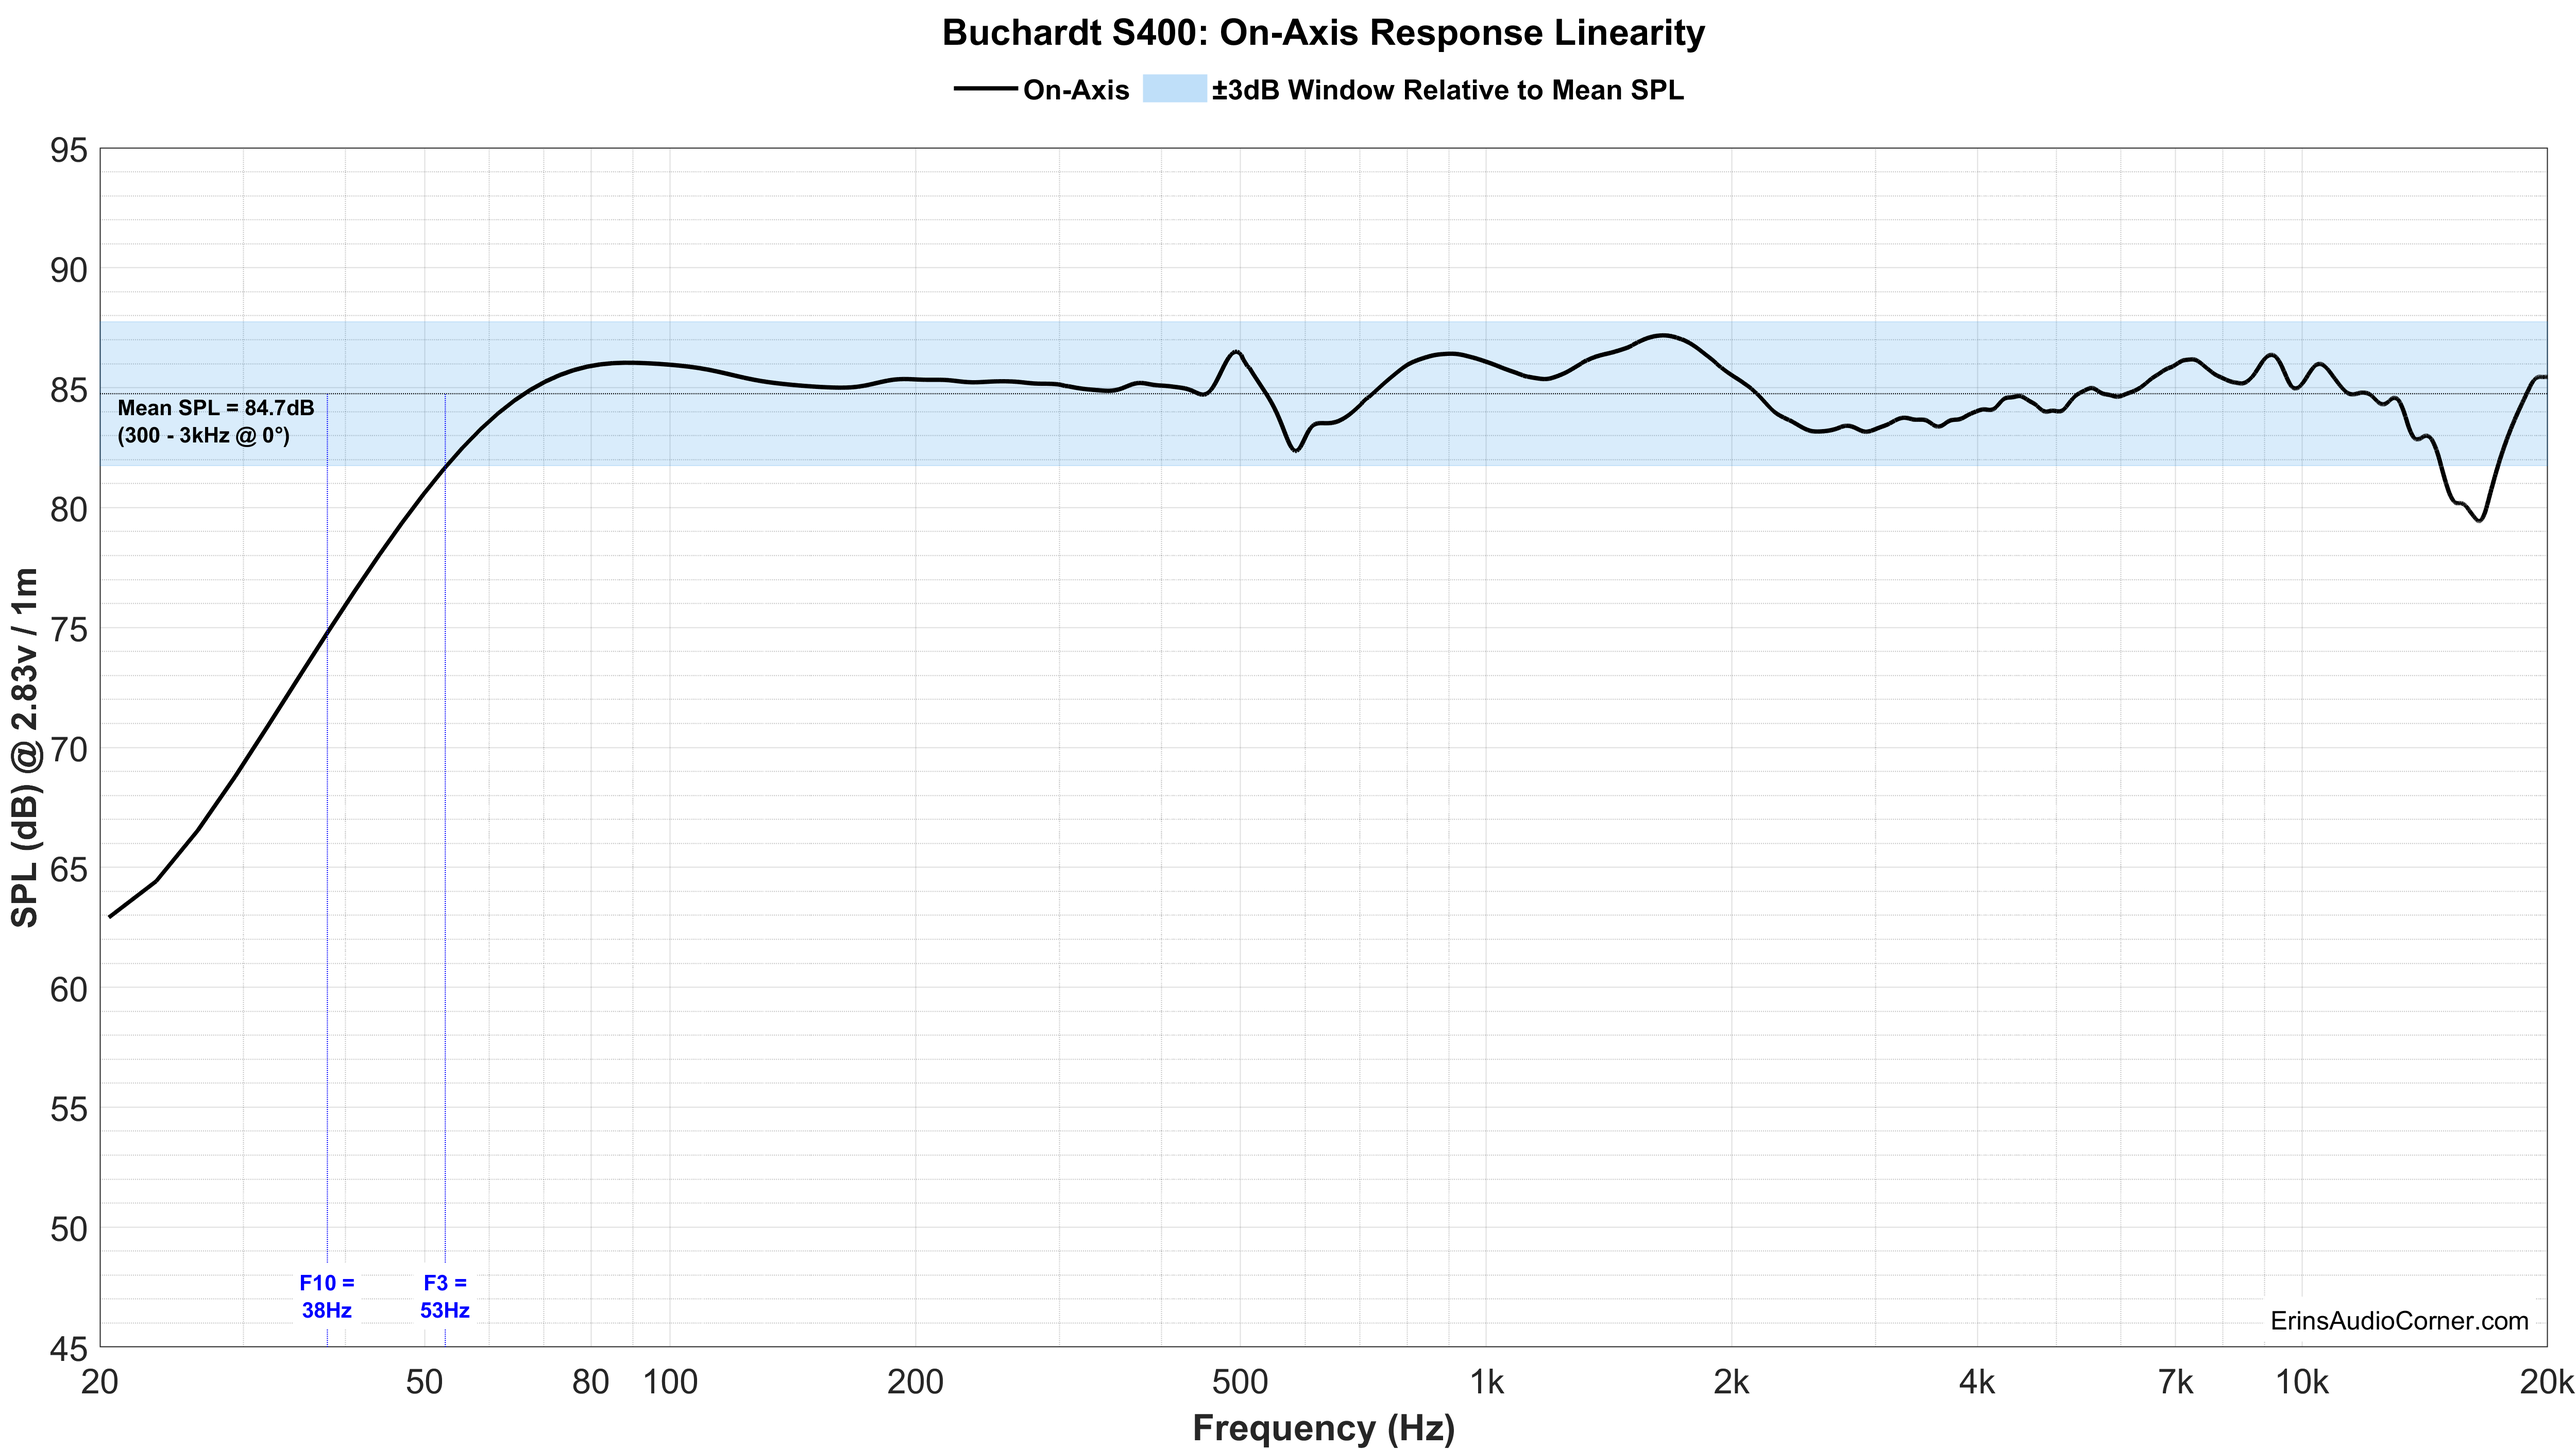
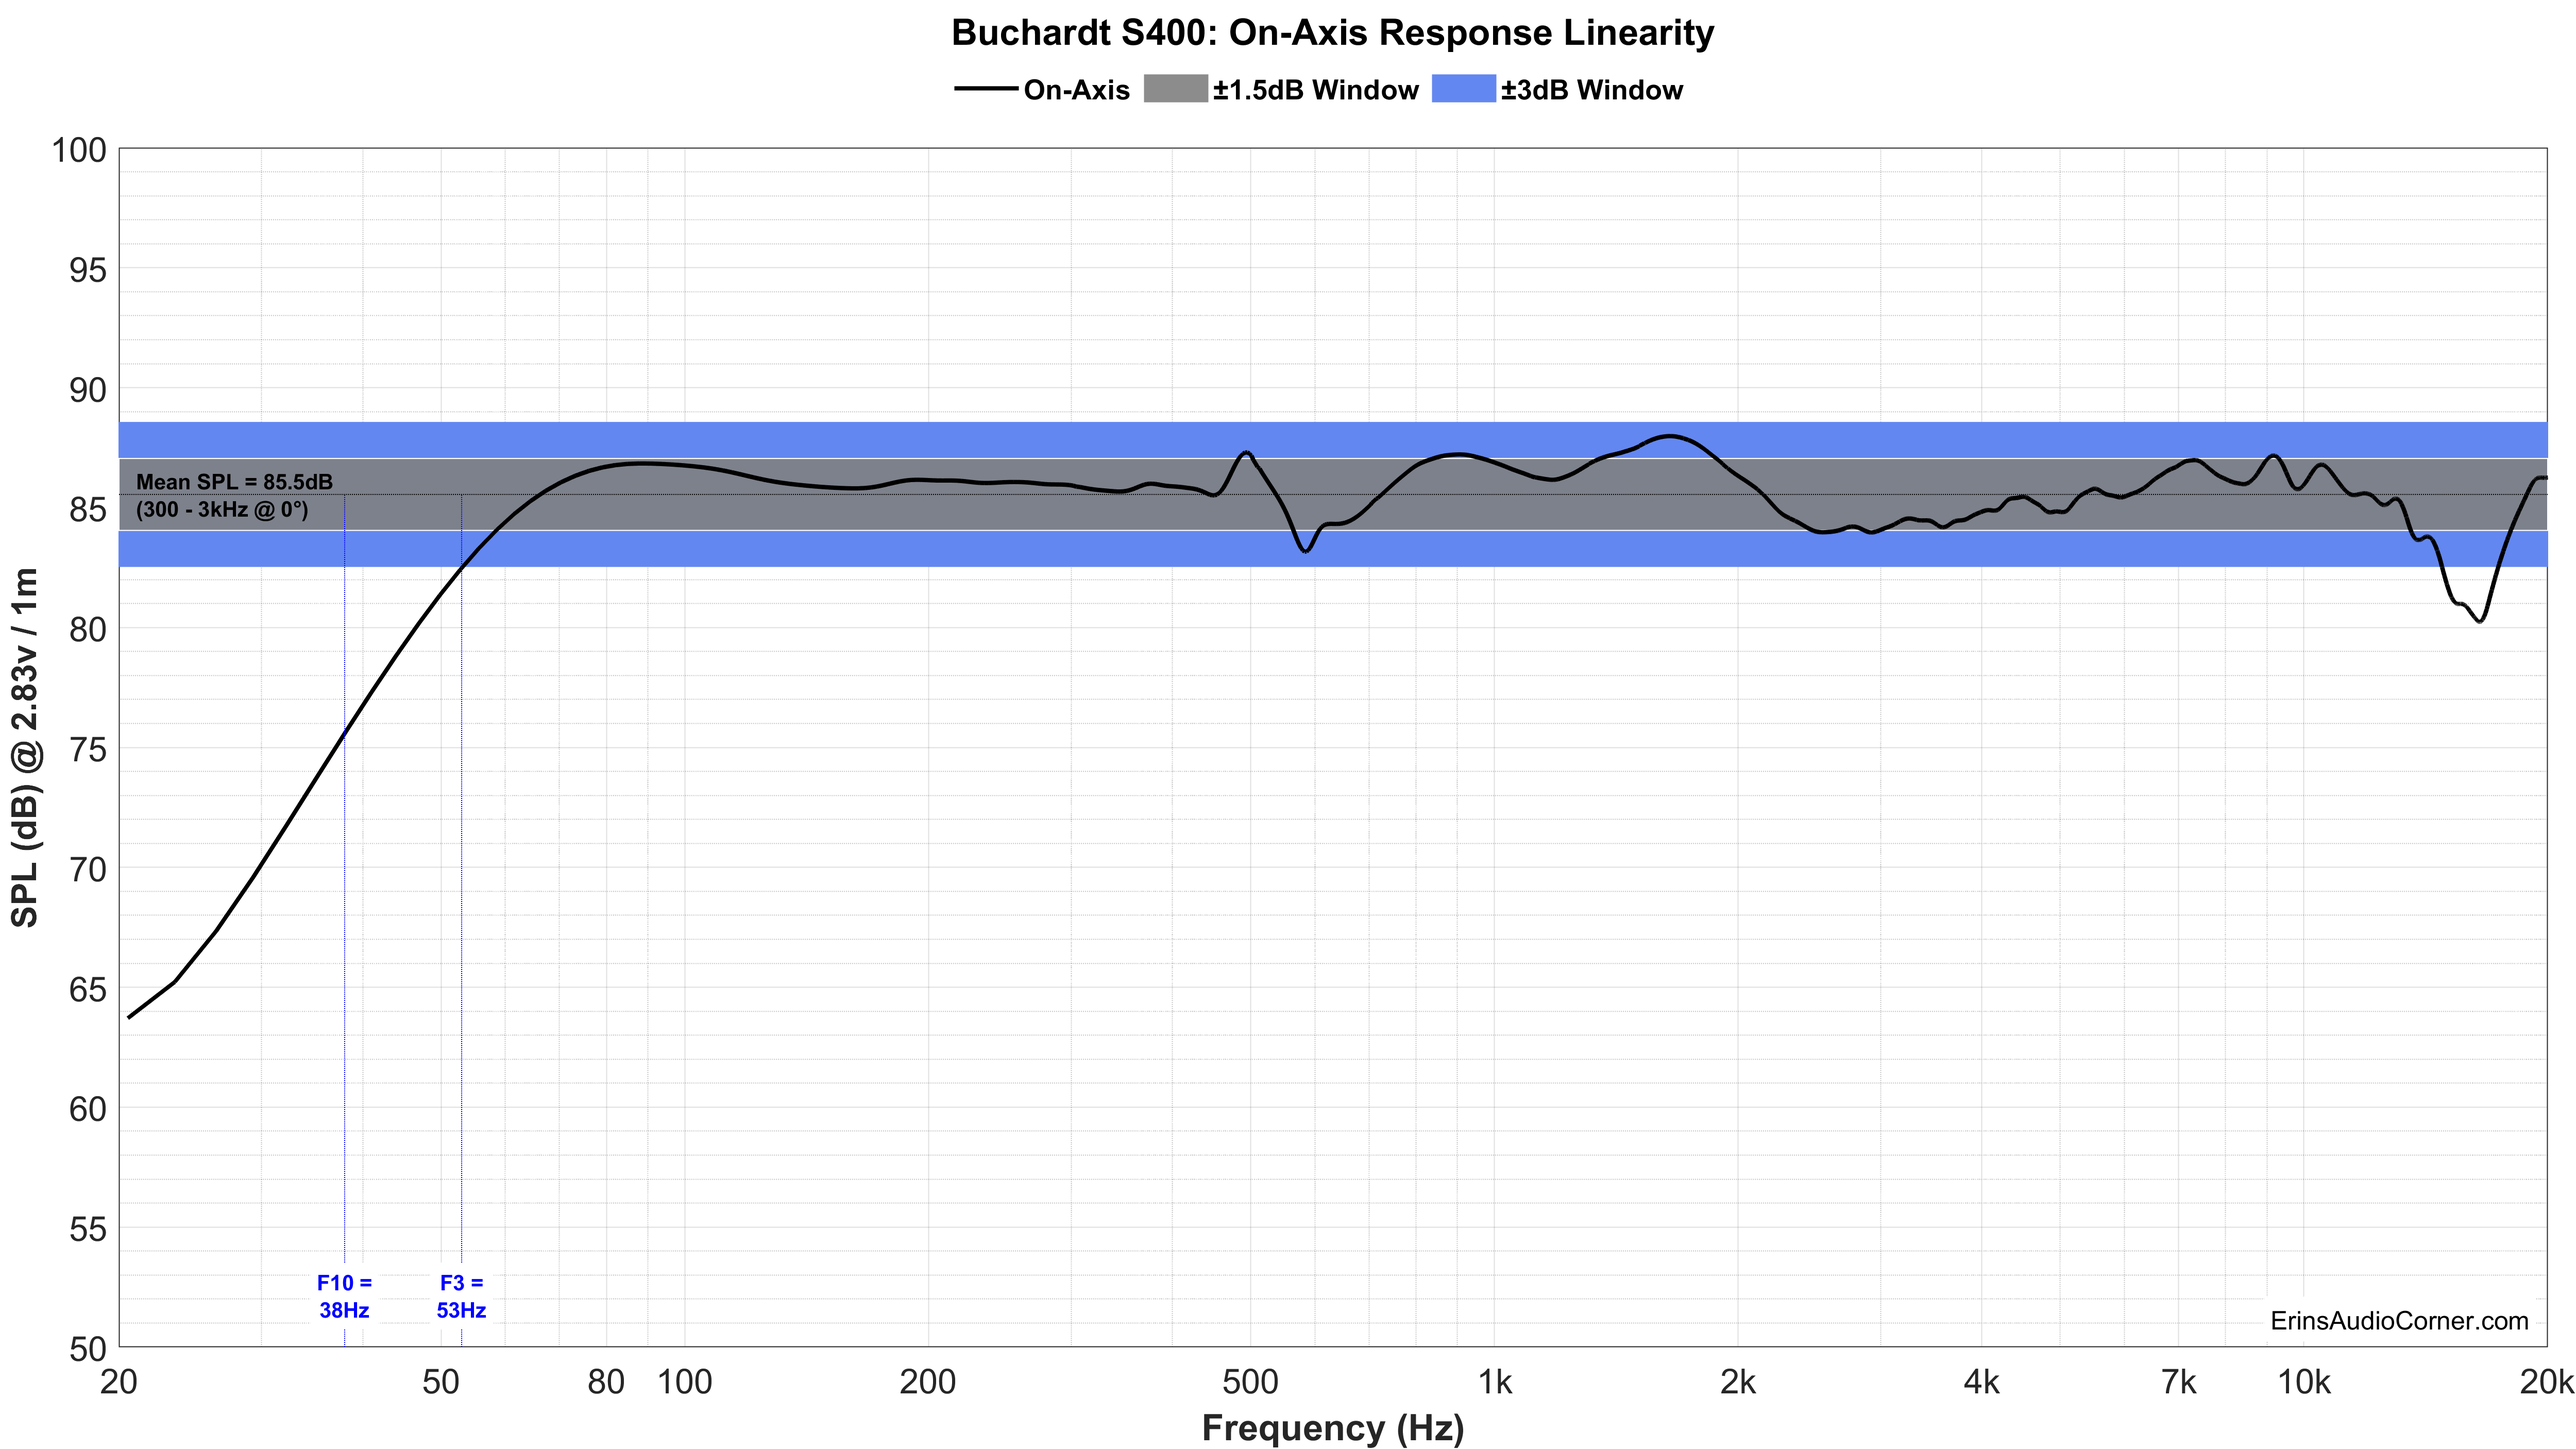
Buchardt_s400_linearity

diff --git a/content/english/loudspeakers/Buchardt_Audio_S400_Bookshelf.md b/content/english/loudspeakers/Buchardt_Audio_S400_Bookshelf.md
@@ -79,11 +79,15 @@ Frequency response data (horizontal, vertical, "Spinorama", polar, spectrograms,
 
 <br>
 
-The measurement below provides the frequency response at the reference measurement axis - also known as the 0-degree axis or "on axis" plane - in this measurement condition was situated between the woofer and waveguide, per the manufacturer recommendation.  Ideally, the response is linear/flat and shows no resonance via peaks or dips.  The mean spl, approximately 84.7dB, is calculated over the frequency range of 300Hz to 3,000Hz.  The blue shaded area represents the ±3dB response window from this mean spl value.  As you can see, the Buchardt S400 has a ±3dB response from 53Hz - ~16kHz, with the latter being a function of the on-axis dip via cancelation of the dome tweeter to the waveguide mouth which is not apparent off-axis. The speaker's F3 point (the point at which the response has fallen 3dB relative to the mean spl) is 53Hz and the F10 (the point at which the response has fallen by 10dB relative to the mean spl) is 38Hz.  While typical rooms provide a low-frequency boost, if you plan to listen to music with lower frequency content, this information indicates you would need a subwoofer to fill in the lower octaves (or, you can use EQ to boost the low end but lowering the maximum SPL).
+The measurement below provides the frequency response at the reference measurement axis - also known as the 0-degree axis or "on axis" plane - in this measurement condition was situated between the woofer and waveguide, per the manufacturer recommendation.
 
 <img align="left" src="/images/Reviews/Loudspeakers/Buchardt_S400/Buchardt S400 FR_Linearity.png" alt="fr horz" width="120%"/>
 
 <br clear="all" />
+
+The mean spl, approximately 85.5dB, is calculated over the frequency range of 300Hz to 3,000Hz.  The blue shaded area represents the ±3dB response window from this mean spl value.  As you can see in the blue window above, the Buchardt S400 has a ±3dB response from 53Hz - ~16kHz, with the latter being a function of the on-axis dip via cancelation of the dome tweeter to the waveguide mouth which is not apparent off-axis. A tighter window of linearity is provided in gray as ±1.5dB from the mean SPL.
+
+The speaker's F3 point (the frequency at which the response has fallen 3dB relative to the mean spl) is 53Hz and the F10 (the frequency at which the response has fallen by 10dB relative to the mean spl) is 38Hz.  While typical rooms provide a low-frequency boost, if you plan to listen to music with lower frequency content, this information indicates you would need a subwoofer to fill in the lower octaves (or, you can use EQ to boost the low end but lowering the maximum SPL).  For further discussion on maximum SPL please read by evaluation sections toward the end of this review.
 
 
 Below are both the horizontal and vertical response over a limited window (90° horizontal, ±40° vertical).  I have provided a "normalized" set of data as well.  The normalization simply means that I took the difference of the on-axis response and compared the other axes' measurements to the on-axis response which gives the viewer a good idea of the speaker performance, relative to the on-axis response, as you move off-axis.
